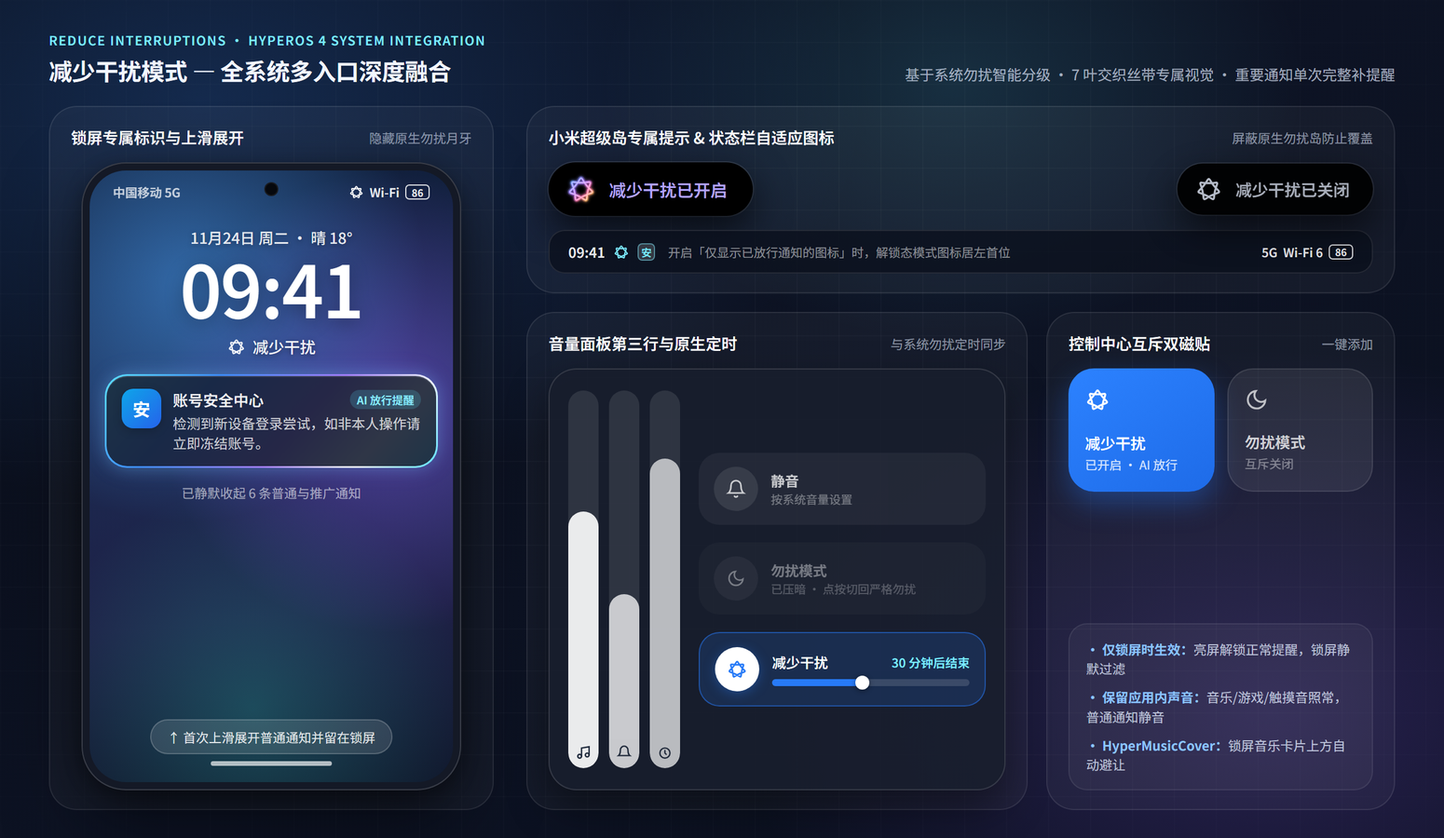
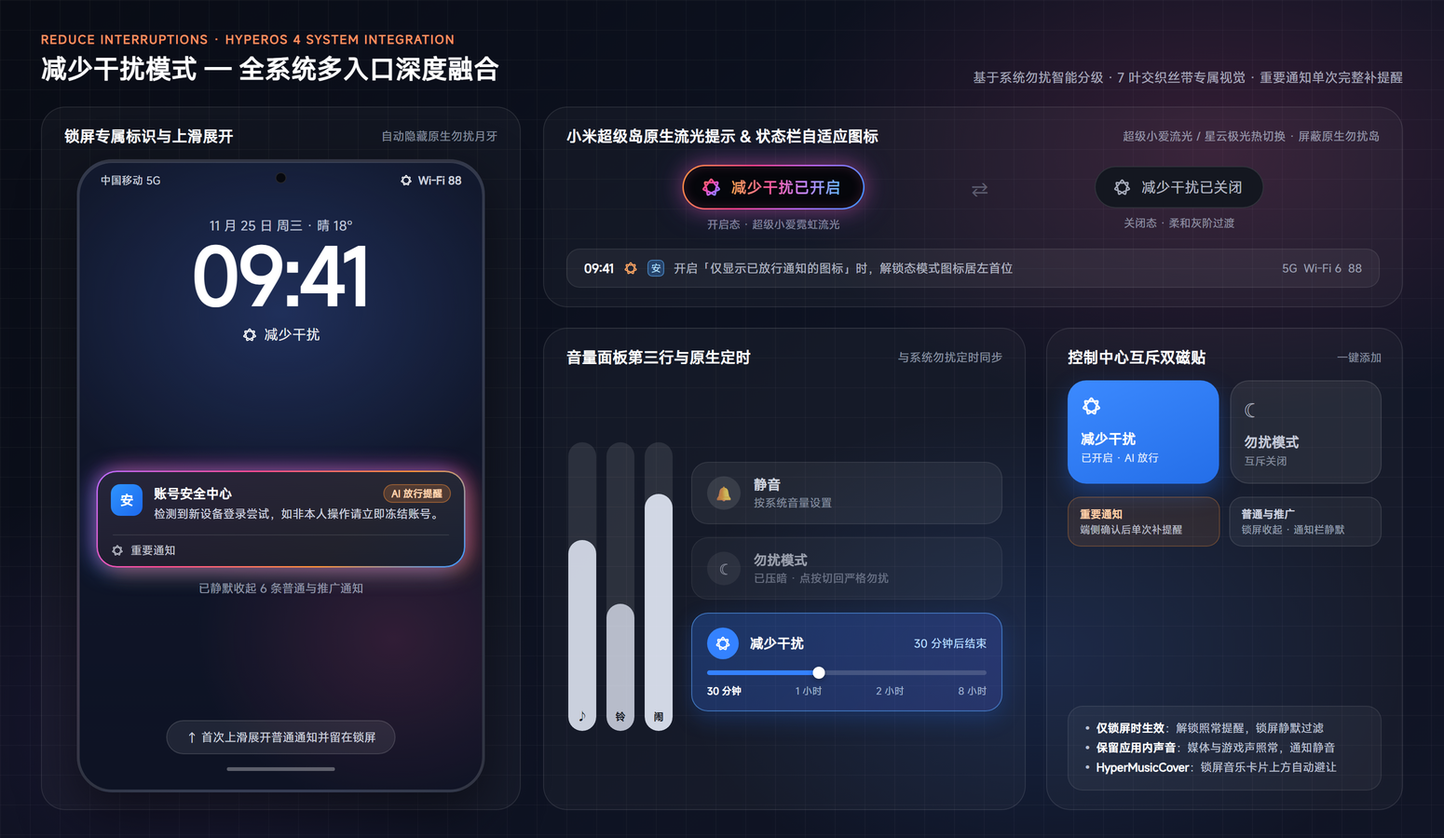
docs: 重写 README 并升级 v2.0.0 全套视觉配图

diff --git a/README.md b/README.md
@@ -6,91 +6,100 @@
 
 > 本地端大模型驱动的 HyperOS 智能通知模块（LSPosed · 100% 离线端侧推理）
 
-**LocalAiNotif** 是一款面向小米澎湃 OS（HyperOS）的开源 LSPosed 模块。模块内置 [MNN-LLM](https://github.com/alibaba/MNN) 端侧推理引擎，在设备本地运行 Qwen3.5 量化模型，支持高通骁龙 Hexagon NPU 与 CPU 混合推理。模块为系统通知栏、锁屏、音量面板与超级岛带来 **AI 通知摘要**、**单条长通知 AI 概括**、**重要通知专区**、**噪音过滤** 与 **减少干扰模式**。所有通知文本均在设备本地处理，**无需云端 API、不上传任何隐私数据、不依赖小米云控或小米账号**。
+**LocalAiNotif** 是一款面向小米澎湃 OS（HyperOS）的开源 LSPosed 模块。模块内置 [MNN-LLM](https://github.com/alibaba/MNN) 端侧推理引擎，在设备本地运行 **Qwen3.5** 量化模型，并支持高通骁龙 Hexagon NPU 与 CPU 混合推理。模块为系统通知中心、锁屏、状态栏、音量面板与小米超级岛带来 **AI 通知摘要**、**单条长通知 AI 概括**、**重要通知专区**、**噪音过滤** 与 **减少干扰模式**。所有通知文本均在手机本地完成处理，**无需云端 API、不上传任何隐私数据、不依赖小米云控或小米账号**。
 
 ---
 
 ## 环境要求与兼容性说明
 
 > [!IMPORTANT]
-> - **系统兼容性**：当前测试环境为 **HyperOS 4 / Android 17**（小米 15），**不保证更低版本系统或非 HyperOS 4 设备的兼容性**。
+> - **系统兼容性**：当前实测环境为 **HyperOS 4 / Android 17**（主力机型：小米 15），**不保证更低版本系统或非 HyperOS 4 设备的兼容性**。
 
 | 项目 | 要求 / 说明 |
 |---|---|
-| 测试环境 | **HyperOS 4 / Android 17**（主力实测机型：小米 15），不保证更低版本系统兼容性 |
-| 权限框架 | Root + **LSPosed**（支持 libxposed API 102） |
-| 芯片架构 | ARM64 (`arm64-v8a`)，已支持 Android 15+ 16KB 页对齐 |
-| 推理后端 | CPU，以及高通骁龙 Hexagon NPU（当前适配骁龙 8 至尊版 SM8750，Hexagon v79） |
+| 测试环境 | **HyperOS 4 / Android 17**（小米 15），`minSdkVersion = 34` / `targetSdkVersion = 36` |
+| 权限框架 | Root + **LSPosed**（`libxposed` API 102，静态作用域） |
+| 芯片架构 | ARM64 (`arm64-v8a`)，原生支持 Android 15+ 16KB 页对齐 |
+| 推理后端 | CPU，以及高通骁龙 Hexagon NPU（当前适配骁龙 8 至尊版 `SM8750` / Hexagon v79，不可用时自动回退 CPU） |
 
-> 模块深度对接 HyperOS 4 原生通知框架（`HyperNotificationManagerService`、`MiuiSystemUI`、音量面板插件、小米超级岛、`MIUINotificationCenter` 与系统设置）。若在未测试版本中遇到不匹配的 Hook 项，模块会自动安全降级，不会导致系统崩溃，但部分视觉或交互特性可能不可用。
+> 模块深度对接 HyperOS 4 原生通知框架（`HyperNotificationManagerService`、`MiuiSystemUI`、音量面板插件、小米超级岛、`MIUINotificationCenter` 与系统设置）。若在未测试系统版本中遇到不匹配的 Hook 符号，对应特性会自动安全降级，不会导致系统崩溃，但部分视觉或交互能力可能不可用。
 
 ### 第三方模块兼容（HyperMusicCover）
 
-**与 [HyperMusicCover](https://github.com/zyl6932/HyperMusicCover) 联用**（按 v0.9.60 源码适配）：两个模块均在 LSPosed 的系统界面（SystemUI）作用域生效后，开启「减少干扰」会同时收起锁屏超级岛里的普通通知。系统允许在锁屏显示的重要通知、来电和导航继续按原规则展示，在锁屏空白处上滑可临时展开普通通知。
+**与 [HyperMusicCover](https://github.com/zyl6932/HyperMusicCover) 联用**（按 `v0.9.60` 适配）：两个模块同时在 LSPosed 的系统界面（`com.android.systemui`）作用域生效后，开启「减少干扰」时会联动收起锁屏超级岛内的普通通知。系统允许在锁屏展示的重要通知、来电与导航照常保留，在锁屏空白处上滑即可临时展开已静默的普通通知（自动避让媒体控制卡片区域）。
 
-锁屏音乐卡片出现时，「减少干扰」标记会独立避让并显示在卡片上方；卡片收起后，标记自动回到原来的锁屏时钟下方位置。播放控件和封面手势仍由音乐封面模块处理，使用媒体会话（`MediaSession`）的自定义播放器通知也可正常放行。模式开启期间，日期旁的原生勿扰月牙会自动收起。
+锁屏音乐卡片显示时，「减少干扰」标识会自动上移避让至卡片上方；音乐卡片收起后自动回到锁屏时钟下方。播放控制与封面手势仍交由音乐封面模块处理，基于 `MediaSession` 的自定义播放器通知也可正常放行；模式开启期间会自动隐藏日期旁的原生勿扰月牙图标。
 
 ---
 
 ## 核心功能
 
 > [!NOTE]
-> 以下功能示例图严格依据模块当前的 HyperOS 4 视觉色板、矢量图标与交互布局绘制，实际渲染效果随系统深浅色与壁纸材质自适应。
+> 以下配图基于 `v2.0.0` 默认**「超级小爱流光」**主题绘制，实际渲染效果随所选光效风格（支持热切「星云极光」）、系统深浅色与壁纸材质实时自适应。
 
-### 1. AI 通知摘要与单条 AI 概括
-- **折叠组 AI 摘要**：通知先按系统流程即时投递原文。多条通知折叠成组后，自动生成 1–2 句自然连贯的第三人称要点汇总（支持 `MessagingStyle` 多轮聊天与 `InboxStyle` 上下文提取、程序确定性余量尾注与宁缺毋滥护栏），折叠卡片按摘要实际高度自适应伸缩（上限 4 行），避免截断。
-- **单条长通知 AI 概括**：设置首页提供独立的「AI 概括」栏目与专属动态示意图（默认关闭），内置**亮屏时概括**开关与 **50 / 80（默认）/ 120 / 200 字** 4 档触发字数门槛（英文按约 2 字母折 1 字，修改后立即对通知栏现有通知重判生效）。独立通知与展开通知组后的长消息均呈现单颗流光星芒 `✦ AI 概括 |` 微标与轻混正文，严格维持原生单卡高度；单独展开该条通知即可完整阅读原文，锁屏遵循系统隐私设置，长按沿用小米原生行为。
-- **双光效风格与全链路 4 阶段光学动效**：支持在「其他 › 光效风格」实时热切换 **超级小爱流光（默认）** 与 **星云极光**。AI 摘要（双星芒 `✦✦`）与 AI 概括（单星芒 `✦`）均不动原生卡片底色与外框，完整覆盖推理中 `14°` 倾斜扫光波、首次落地 `880ms` 光浪洗字与星芒轻绽、重入视野微光以及展开/收起联动（遵循锁屏隐私隐藏、息屏零后台动画与系统减弱动效）。
-- **准确刷新与灵活配置**：兼容私聊与群聊 `MessagingStyle` 堆叠通知，成员或内容变动时自动刷新摘要；支持在「摘要触发设置」中自定义**亮屏时生成摘要**、**合并等待时间**（0 / 5 / 15 / 30 / 60 秒）、**最小触发数量**（1 / 2 / 3 / 5 条）与**最小字数门槛**（0 / 10 / 15 / 30 / 50 字，重要通知不受限制），修改实时生效无需重启。
-- **无残留虚拟启用**：运行时在内存中接管 HyperOS 原生 AI 通知状态，不改写系统 `ai_notification_setting`，停用或卸载模块后不污染系统设置。
+### 1. AI 摘要（折叠组多条汇总）
+- **自然连贯第三人称摘要**：所有通知先按系统流程即时投递原文；同一应用的多条通知折叠成组后，由端侧模型在后台生成 Apple Intelligence 式 **1–2 句自然连贯的第三人称汇总**（保留发件人、关键动作及取件码/验证码/时间/金额/地点，保持原文语言）。
+- **富样式上下文与确定性尾注**：完整提取 `MessagingStyle` 多轮聊天记录（最新 4 轮、优先取会话标题防重复发件人）与 `InboxStyle` 多行列表，单次喂入最新 8 条并按时间正序整理；当组内通知超出喂入窗口或涉及多发件人时，由程序确定性补齐柔和余量尾注（如「等共 N 条通知」），不让小模型心算。
+- **宁缺毋滥护栏**：前置校验本地模型就绪状态（无模型零扫光、零请求），彻底去除规则截断假摘要兜底；内置护栏拦截空输出、提示词泄漏、复读循环、照抄原文及丢失/篡改显式验证码或取件码，命中即静默保留原生折叠原文。
+- **内联流光微标、自适应高度与 4 阶段动效**：不改动卡片底色与外框，折叠预览行首绘制自绘**双四角星芒 `✦✦ AI 摘要 |`** 与轻混流光正文，折叠卡片按实际排版高度自适应伸缩（上限 **4 行**，避免截断）。完整覆盖：① 真实 `inFlight` 推理期 `14°` 倾斜扫光波（`140ms` 防抖，原文全程可读）；② 首次落地/更新 `880ms` 光浪洗字与双星芒轻绽；③ 亮屏/下拉重入 `550ms` 徽标微光；④ 展开/折叠跟手微缩放与 `350ms` 折回轻闪（遵循锁屏隐私隐藏、息屏零动画与系统减弱动效）。
+- **灵活触发设置（二级页「摘要触发设置」）**：默认开启且对全部应用生效，支持即时调节**亮屏时生成摘要**（默认开启）、**合并等待时间**（`0 / 5 / 15 / 30 / 60 秒`，默认 `0 秒`）、**最小触发数量**（`1 / 2 / 3 / 5 条`，默认 `1 条`）与**最小字数门槛**（`0 / 10 / 15 / 30 / 50 字`，默认 `15 字`，重要通知不受限制），修改后无需重启立即同步。
+- **无残留虚拟启用**：运行时在内存中接管 HyperOS 原生 AI 通知状态，不向系统写入 `ai_notification_setting`，停用或卸载模块后不污染系统设置。
 
-### 2. 重要通知专区
-- **纯端侧语义判定**：由本地大模型实时识别**验证码、支付与交易、账号安全告警、日程变更、健康告警、家人未接来电**等高优先级消息。
-- **Apple 智能合卡 × 双光效环绕柔光**：在锁屏与通知中心自动置顶重要通知，通知中心多条重要通知无缝合为一张连续整卡（内分割线分隔）并在最底端共用同一个 7 叶交织丝带「重要通知」Footer，整卡外沿环绕清晰柔和的多色外扩散光晕与贴边玻璃折射棱（内部文字 100% 清透，支持超级小爱流光 / 星云极光热切换）；锁屏顺应 HyperOS 原生堆叠，解锁下拉支持重要通知先行、普通通知刻意分层入场。
-- **独立 VIP 分组与专属摘要**：同一应用的多条重要通知会自动合并为独立的原生折叠组，并仅基于组内重要通知生成专属 AI 摘要，不会与同应用的普通通知混杂；缩减为单条时自动恢复单卡。
+### 2. AI 概括（单条长通知要点提炼）
+- **面向单条长消息**：首页独立成节（默认关闭），开启后自动将单条较长通知提炼为 **1–2 句凝练要点**（优先呈现最新安排或结果及下一步行动，保留时间、地点与验证码，省去寒暄和旧信息），覆盖独立单条通知以及展开通知组后的长消息子卡；折叠组仍继续显示整组「AI 摘要」。
+- **单星芒流光视觉与 4 阶段动效**：与「AI 摘要」同源流光但视觉一眼可辨——行首采用**单颗四角星芒 `✦ AI 概括 |`** + 渐变半粗体微标 + `0.8dp` 渐隐竖光丝与轻混正文，严格维持单条通知原生行数、卡片高度与原生底色/外框。完整对齐 4 阶段光学动效（推理中 `14°` 倾斜扫光波 → 当前视野实时落地 `880ms` 光浪洗字 → 重入视野与展开通知组首次露出后台已算好长消息时仅播 `550ms` 徽标微光 → 单卡收起回概括态播 `350ms` 轻闪）。
+- **原文无损与原生交互**：顶部弹出横幅（Heads-up）保持原生原文不概括；锁屏是否展示概括遵循系统通知隐私设置；点开/展开该条通知即可完整阅读原文，通知中心与锁屏的所有长按操作均 100% 沿用小米原生行为。
+- **内联独立配置与即时重判**：独立卡片内配备专属 `RecapPreviewView` 动态示意图，并常驻内联提供：
+  - **亮屏时概括**（默认开启）：关闭后仅在息屏时生成新概括，亮屏到达的新长通知保持原文并在息屏后自动补齐，已生成的概括不撤销。
+  - **触发字数门槛**（4 档底部浮窗：`50 字` / `80 字（默认）` / `120 字` / `200 字`）：按汉字数计，英文字母与数字按约 2 字符折 1 字；修改门槛后立即对通知栏现有通知重判生效（调低门槛即时补算达标通知，调高门槛自动撤销不再达标的旧概括）。
+
+### 3. 重要通知专区
+- **纯端侧语义判定**：默认开启，由本地大模型实时识别**验证码、支付与交易、账号安全告警、物流异常、日程变更、健康告警、家人未接来电**等高优先级消息。
+- **Apple 智能连续合卡 × 双光效环绕柔光**：在锁屏与通知中心自动置顶重要通知。通知中心内多条重要通知无缝合并为一张连续整卡（内分割线分隔各条）并在最底端共用同一个 7 叶交织丝带「重要通知」Footer；整卡外沿由 AGSL 着色器绘制柔和多色外扩散光晕与贴边玻璃折射棱，卡片内部文字与分割线 100% 清透；亮屏、下拉或新重要通知置顶时外沿流光丝滑流转约 `1.6s` 后静息。锁屏顺应 HyperOS 原生堆叠，顶部横幅保持原生清爽不加 Footer。
+- **解锁下拉刻意分层入场**：解锁态下拉通知中心且存在重要通知时，重要通知原生先行进入，下方普通通知在拖拽初段静默留白，跨过阈值或松手时原地柔和淡入微落，消除原生下拉跳动与穿透感。
+- **独立 VIP 分组与专属摘要**：同一应用有 2 条及以上重要通知时，自动聚合为独立原生折叠组并仅基于组内 VIP 生成专属 AI 摘要，不与同应用的普通通知混杂；缩减回单条时自动恢复单卡。
 
 <p align="center">
-  <img src="docs/images/demo-summary-priority.png" alt="AI 通知摘要与重要通知专区示例" width="100%">
+  <img src="docs/images/demo-summary-priority.png" alt="AI 摘要、AI 概括与重要通知专区示例" width="100%">
 </p>
 
-### 3. 噪音过滤
-- **按原设置即时提醒，后台精准收纳**：主设置页提供独立的「噪音过滤」开关（默认关闭，适合长期开启）。开启后通知仍按系统设置即时提醒，由端侧模型在后台独立判定（不受摘要等待时间与字数门槛限制）；未就绪模型或判定异常时保持原通知不变。
-- **只收广告推广，不误伤正常消息**：以单条通知的主要用途为判据，仅将商品推销、促销领券、拉新引流等纯广告推广收纳至「推广通知」；取件码、订单进度、聊天、订阅与用户提醒即使正文附带优惠或领券文案也会整条正常保留（长正文自动防误杀）。
-- **原生「推广通知」折叠页与锁屏隐藏**：解锁后在通知中心底部沿用 HyperOS 原生「更多通知」样式展示独立的「推广通知」入口与应用图标条，锁屏隐藏入口及已收纳的广告。点开后可逐条查看、点按跳原应用或单独划掉，最后一条被移除或由应用撤回后入口自动消失。
-- **直达设置与无损恢复**：推广列表右上角的设置按钮会直接跳转至主设置页并定位到「噪音过滤」开关；手动关闭开关时，仍有效的已收纳通知会静默恢复到普通列表。与「减少干扰」独立解耦，互不影响提醒控制。
+### 4. 噪音过滤（广告推广收纳）
+- **原样即时提醒，后台精准收纳**：首页独立开关（默认关闭，适合长期开启）。通知到达时先按系统原设置即时提醒，随后由端侧模型在后台独立判定（不受摘要等待时间与字数门槛限制）；未就绪模型或异常时保持原通知不变。
+- **双重确认与聊天豁免防误杀**：以单条通知的主要用途为判据，同时要求命中营销关键词/推广通道线索且非超长正文（`≤ 256` 字），并严格排除 `CATEGORY_MESSAGE` 与 `MessagingStyle` 聊天会话；取件码、订单物流、账单、日程、新闻订阅即使正文附带优惠或领券尾巴也会整条正常保留。
+- **原生「推广通知」折叠页与无损恢复**：解锁后在通知中心底部沿用 HyperOS 原生「更多通知」样式展示独立「推广通知」入口与应用图标条，锁屏隐藏入口及已收纳广告。点开后可逐条查看、跳转原应用或单独划掉；右上角设置图标直达模块「噪音过滤」栏目，手动关闭开关时仍有效的已收纳通知会静默恢复至普通列表。
 
 <p align="center">
   <img src="docs/images/demo-noise-filter.png" alt="噪音过滤与推广通知收纳示例" width="100%">
 </p>
 
-### 4. 减少干扰模式（Reduce Interruptions）
-- **智能分级勿扰**：复刻 iOS 18「减少干扰」体验，基于系统勿扰（`ZenMode`）构建并继承系统勿扰原生例外（允许来电、重复来电、闹钟、进行中事件）：
-  - **普通与推广通知**在通知中心静默保留，锁屏时默认收起。首次上滑可展开通知并停留在锁屏，重新锁屏或息屏后再次收起。
-  - **重要通知穿透**：新通知到达后立即触发端侧分类（跳过摘要等待与字数限制），确认为高优重要通知后单次完整补发提醒（声震 / 横幅 / 亮屏）。
-- **深度融入 HyperOS 多入口与专属视觉**：采用 Apple Intelligence 风格 7 叶交织丝带矢量图标，在系统多处原生融合：
-  - **锁屏模式标识**：显示在时钟下方，由白色 7 叶丝带和「减少干扰」文字组成；开启期间自动隐藏锁屏原生勿扰月牙。
-  - **控制中心快捷磁贴**：支持从设置页一键添加独立「减少干扰」磁贴，与原生「勿扰模式」磁贴严格互斥，一键切换互不冲突。
-  - **音量面板第三行与原生定时**：在 HyperOS 展开音量面板的勿扰（月亮）行下方新增「减少干扰」独立行与原生滑动定时条，开合动效、倒计时与系统勿扰定时条件完全同步（开启减少干扰时压暗月亮行，点按月亮行可一键切回传统严格勿扰）。
-  - **小米超级岛专属提示**：开关切换瞬间在超级岛弹出虹彩交织丝带与「减少干扰已开启 / 已关闭」专属卡片，屏蔽原生勿扰岛防止覆盖。
-  - **状态栏自适应图标**：状态栏自动切换为清晰的单色交织丝带矢量图标，自适应深浅色状态栏。
-- **精细控制开关**：
-  - **仅锁屏时生效**：解锁使用手机时全部通知正常提醒，锁屏或息屏后自动静默过滤。
-  - **仅显示已放行通知的图标**：隐藏状态栏左侧未放行通知的应用图标，仅展示系统勿扰例外或 AI 放行通知；开启后解锁态模式图标移至左侧首位，锁屏态回归右侧为运营商名称留白。
-  - **保留应用内声音和系统音效**（默认关闭）：开启后，音乐、游戏和触摸音效按手机原设置播放。普通应用通知在等待分类或判定为普通时保持静音，只有判定为重要并放行的通知才可按原渠道响铃。来电、闹钟等沿用系统勿扰规则。
+### 5. 减少干扰模式（Reduce Interruptions）
+- **智能分级勿扰**：默认关闭，复刻 iOS 18「减少干扰」体验，基于系统勿扰（`ZenMode`）构建并完整继承系统勿扰原生例外（来电、重复来电、闹钟、进行中事件）：
+  - **普通与推广通知**：在通知中心静默保留、锁屏时默认收起；锁屏上滑一次即可临时展开查看并停留，重新锁屏或息屏后再次收起。
+  - **重要通知穿透补发**：新通知到达后立即跳过摘要等待与字数门槛执行端侧分类，确认为重要通知（`important && vip`）后单次完整补发提醒（声震 / 横幅 / 亮屏）；无模型或超时时按 fail-closed 保持安静。
+- **全系统多入口深度融合（7 叶交织丝带图标）**：
+  - **锁屏标识**：在锁屏时钟下方显示单色白色 7 叶丝带与「减少干扰」，开启期间自动隐藏锁屏原生勿扰月牙。
+  - **控制中心互斥磁贴**：支持在设置页一键添加「减少干扰」快捷磁贴，与系统原生「勿扰模式」磁贴严格互斥。
+  - **音量面板第三行与原生定时**：在 HyperOS 展开音量面板的「勿扰模式」行下方新增「减少干扰」独立行与原生滑动定时条，倒计时与系统勿扰定时完全同步，点击原生「勿扰模式」可一键切回传统严格勿扰。
+  - **小米超级岛专属流光卡片**：开启时调用 HyperOS 4 超级岛原生 SDF 流光边框并施加 AGSL 渐彩扫光文字（支持「超级小爱流光」与「星云极光」联动），关闭态保持素雅银灰，并屏蔽原生勿扰岛防止覆盖。
+  - **状态栏自适应图标**：状态栏自动显示单色交织丝带矢量图标，自适应深浅色状态栏。
+- **三项常驻精细开关（默认均关闭）**：
+  - **仅锁屏时生效**：亮屏解锁使用手机时恢复正常提醒，息屏或锁屏时自动拦截打扰。
+  - **仅显示已放行通知的图标**：隐藏状态栏左侧未放行通知的应用图标，仅展示例外与 AI 放行通知；开启后解锁态模式图标移至左侧首位，锁屏态居于右侧。
+  - **保留应用内声音和系统音效**：音乐、游戏和触摸音效按手机原设置正常播放；普通通知保持静音，仅重要通知放行后可按原渠道响铃。
 
 <p align="center">
   <img src="docs/images/demo-reduce-interruptions.png" alt="减少干扰模式多入口融合示例" width="100%">
 </p>
 
-### 5. 本地模型管理与 HyperOS 原生设置
-- **多镜像源一键下载**：内置 **魔搭社区 ModelScope（默认推荐）**、**HF-Mirror**、**Hugging Face** 三下载源，支持断点续传、仅 Wi-Fi 下载保护与前台服务通知栏进度条。
-- **本地模型导入与管理**：支持通过系统目录选择器导入手机上已有的 MNN-LLM 模型目录，支持查看模型详情、原目录位置与自由切换；删除导入模型时仅移除模块内部副本，不改动手机原文件夹。
-- **进程隔离与内存策略**：推理运行在独立 `:inference` 隔离进程，不影响 `system_server` 稳定性，并内置墓碑冻结重试保护；默认按需懒加载、空闲 3 分钟无推理自动释放内存，同时提供**始终加载 AI 模型**开关（系统静默保活绑定，通知到达免冷启动）。
-- **HyperOS 原生视觉与关于页**：设置界面采用纯原生 HyperOS 规范（18dp 超椭圆卡片、MiSans 可变字重、自绘阻尼胶囊开关与**五张随开关及光效风格实时联动的功能示意图**，自动适配浅色与 OLED 深色模式）。内置**关于与运行环境**页面，支持：
-  - **在系统设置中显示入口**：按需在「系统设置 › 通知与状态栏」的「小米超级岛」下方同卡融合显示原生入口（实时生效无需重启）。
-  - **隐藏桌面图标**：带防迷路确认引导，保留系统设置与 LSPosed 管理器入口。
-  - **检查更新**：在「关于 › 项目信息」点按「检查更新」。发现新正式版后，点按「下载更新」即可将 APK 保存到系统「下载」文件夹，从中打开安装。
-  - **运行环境诊断**：双轨检测 LSPosed 自注入与 `system_server` 实时版本（自动区分「已激活」与「需软重启」），查看设备/模型/引擎状态并一键复制诊断信息。
+### 6. 双光效风格、本地模型与 HyperOS 原生设置
+- **双「光效风格」无重启热切换**：在首页「其他 › 光效风格」可在 **超级小爱流光（默认，暖橙/玫粉/薰衣草紫/电光蓝）** 与 **星云极光（天青/晴空蓝/冰紫）** 间一键切换，实时广播同步至通知栏全部 AI 视觉（AI 摘要、AI 概括、重要通知合卡、减少干扰超级岛）及设置页全部 **5 组动态示意图**。
+- **多镜像源一键下载与本地导入**：内置 **魔搭社区 ModelScope（默认推荐）**、**HF-Mirror** 与 **Hugging Face** 三下载源，支持断点续传、仅 Wi-Fi 下载保护（默认开启）与前台服务进度通知；同时支持通过系统目录选择器导入手机上已有的 MNN-LLM 模型目录，查看详情与原目录位置，删除导入模型时仅移除模块内部副本，不动原文件夹。
+- **独立隔离进程与内存策略**：推理引擎运行在独立 `:inference` 进程，不占用 `system_server` 内存，内置 MIUI 墓碑冻结（`GreezeManager`）重试保护；默认按需懒加载并在空闲 **3 分钟** 无推理后自动卸载释放内存，同时提供**始终加载 AI 模型**开关（由 `system_server` 静默绑定 `ModelKeepAliveService`，通知到达免冷启动）。
+- **HyperOS 原生设置与「关于」页**：全页采用纯原生 Java View 实现 HyperOS 4 视觉规范（`18dp` 连续曲率超椭圆卡片、`28dp` 左对齐基准线、MiSans 可变字重、自绘阻尼胶囊开关、**5 组实时联动功能示意图**，自适应浅色与 OLED 纯黑深色模式）。「关于」页支持：
+  - **在系统设置中显示入口**（默认关闭）：实时在「系统设置 › 通知与状态栏」的「小米超级岛」同卡下方融合注入入口，无需重启。
+  - **隐藏桌面图标**：通过 `<activity-alias>` 实现并附带防迷路确认引导，保留系统设置与 LSPosed 管理器入口。
+  - **应用内检查更新**：一键查询 GitHub 最新正式版，通过系统 `DownloadManager` 下载对应 `LocalAiNotif-v<version>.apk` 至系统「下载」目录。
+  - **运行环境诊断**：双轨核验 LSPosed 自注入状态与 `system_server` 实时版本（自动区分「已激活」与「需软重启」），查看设备/模型/引擎状态并一键复制诊断信息。
 
 <p align="center">
   <img src="docs/images/demo-settings-hyperos.png" alt="HyperOS 原生设置页与本地模型管理示例" width="100%">
@@ -101,105 +110,137 @@
 ## 快速上手
 
 ### 第一步：安装与激活模块
-1. 前往 [Releases](https://github.com/InternetBugs/LocalAiNotif/releases) 下载并安装最新正式版 `LocalAiNotif` APK（安装包不含模型权重，体积轻巧）。
-2. 打开 **LSPosed 管理器**，启用 **端侧AI通知总结（LocalAiNotif）**，确认勾选以下 **5 个静态作用域**：
+1. 前往 [Releases](https://github.com/InternetBugs/LocalAiNotif/releases) 下载最新正式版安装包（不含模型权重，体积轻巧）：
+   - `LocalAiNotif-v<version>.apk`（**Release**）：关闭应用调试，推荐日常使用。
+   - `LocalAiNotif-v<version>-debug.apk`（**Debug**）：开启调试模式，适合排查问题或通过已授权的 ADB 使用 `run-as`。
+   - 两个包功能、包名和正式签名完全一致，任选其一安装即可。
+2. 打开 **LSPosed 管理器**，启用 **端侧AI通知总结（LocalAiNotif）**，确认以下 **5 个静态作用域**（见 [scope.list](META-INF/xposed/scope.list)）已勾选：
    - **系统框架** (`system`)
    - **系统界面** (`com.android.systemui`)
    - **通知管理 / 通知中心** (`com.miui.notification`)
    - **设置** (`com.android.settings`)
-   - **端侧AI通知总结** (`com.localai.notif`，用于在「关于」页检测框架激活状态)
-3. **软重启或重启手机**使 Hook 生效。
+   - **端侧AI通知总结** (`com.localai.notif`，用于「关于」页读取框架信息与激活状态)
+3. **软重启或重启手机**使 Hook 生效（更新版本后若涉及系统 Hook 变更，软重启一次即可）。
 
 ### 第二步：下载或导入本地模型
 1. 打开 **端侧AI通知总结**，进入「本地模型 › 端侧模型」。
-2. 选择下载源（国内网络推荐使用默认**魔搭社区 ModelScope** 或 **HF-Mirror**）。
-3. 选择 Qwen3.5-0.8B 或 Qwen3.5-2B，下载后设为当前模型。也可以导入手机本地已有的 MNN-LLM 模型目录。
+2. 选择下载源（国内网络推荐默认的**魔搭社区 ModelScope** 或 **HF-Mirror**）。
+3. 下载预设模型 **Qwen3.5-0.8B（推荐）** 或 **Qwen3.5-2B** 并设为当前模型；也可以直接导入手机本地已有的 MNN-LLM 模型目录。
 
-#### 端侧模型资源占用
+#### 预设端侧模型与实测资源占用
 
 | 模型（MNN INT4） | 下载大小 | 推理后端 | 推理进程峰值内存 | 短通知摘要耗时 |
 |---|---:|---|---:|---:|
-| Qwen3.5-0.8B | 约 550 MB | CPU | 924 MiB | 0.36 秒 |
-| Qwen3.5-0.8B | 同一份模型 | Hexagon NPU + CPU | 299 MiB | 0.99 秒 |
-| Qwen3.5-2B | 约 1.27 GB | CPU | 1,725 MiB | 0.73 秒 |
-| Qwen3.5-2B | 同一份模型 | Hexagon NPU + CPU | 1,343 MiB | 4.99 秒 |
+| **Qwen3.5-0.8B（推荐）** | 约 550 MB | CPU | 924 MiB | 0.36 秒 |
+| **Qwen3.5-0.8B（推荐）** | 同一份模型 | Hexagon NPU + CPU | 299 MiB | 0.99 秒 |
+| **Qwen3.5-2B** | 约 1.27 GB | CPU | 1,725 MiB | 0.73 秒 |
+| **Qwen3.5-2B** | 同一份模型 | Hexagon NPU + CPU | 1,343 MiB | 4.99 秒 |
 
-数据来自小米 15（骁龙 8 至尊版）上的 MNN 文本推理测试。每种后端独立运行三次，表中取中位数。内存是完成短通知摘要和分类期间的进程峰值 RSS，NPU 专用内存未单独计量。耗时是同一条会议通知生成一句摘要的输入处理与生成时间，不含加载模型、首次回退重试或应用排队。长通知、分组摘要和更长输出的占用与耗时会变化。
+> 数据来自小米 15（骁龙 8 至尊版 `SM8750`）实测，每种后端独立运行三次取中位数。内存为完成短通知摘要与分类期间 `:inference` 进程峰值 RSS（NPU 专用内存未单独计量）；耗时为同一条会议通知生成一句摘要的输入处理与生成耗时，不含模型加载、回退重试或排队耗时。
 
-两款模型均支持在兼容的高通骁龙处理器上使用 Hexagon NPU，目前适配骁龙 8 至尊版（SM8750，Hexagon v79）。Hexagon 执行支持的投影运算，2B 模型还会将门控归一化（`GatedRMSNorm`）交给 Hexagon，注意力等其余运算由 CPU 完成。已下载的模型可直接使用，NPU 不可用时应用会自动使用 CPU。导入模型可在 `config.json` 中指定 `"backend_type": "hexagon"`。
+两款预设模型均支持在高通骁龙 8 至尊版（`SM8750`，Hexagon v79）上自动启用 Hexagon NPU 混合推理：NPU 承担投影运算（2B 模型额外承接 `GatedRMSNorm`），注意力等其余算子由 CPU 完成；若设备不支持或初始化/生成失败，引擎会自动静默回退至 CPU 后端。手动导入的本地模型可在其 `config.json` 中指定 `"backend_type": "hexagon"` 启用混合推理。
 
-APK 随附 `libs/hexagon-v79/` 中的 Android FastRPC 接口库和 DSP 算子库。需要重新编译时，在 Linux 上设置 `MNN_DIR`（与发版流程相同的 MNN 提交）、`HEXAGON_SDK_ROOT`（6.4.0.2）和 `ANDROID_NDK_HOME`（r28c），运行 `bash tools/hexagon/build-v79.sh`。
+APK 已内置 `libs/hexagon-v79/` 中的 Android FastRPC 接口库与 DSP 算子库（`libMNN_htpops.so`、`libMNN_htpops_skelV79.so`）。如需自行重编，可在 Linux 上设置 `MNN_DIR`（与发版流程相同的 MNN 提交）、`HEXAGON_SDK_ROOT`（`6.4.0.2`）和 `ANDROID_NDK_HOME`（`r28c`），执行 `bash tools/hexagon/build-v79.sh`。
 
-### 第三步：按需调整设置与添加入口
-- **AI 摘要 / 重要通知**：默认开启并对全部应用生效，可在首页一键开关或进入「摘要触发设置」微调触发时机与字数门槛。
-- **AI 概括**：默认关闭，可在首页独立「AI 概括」栏目一键开启，并按需调节「亮屏时概括」与「触发字数门槛」（50 / 80 / 120 / 200 字）。
-- **噪音过滤**：默认关闭，可在首页按需开启，自动将广告推广收纳至通知中心底部的「推广通知」。
-- **减少干扰**：可在首页开启、点击「添加到控制中心」加入快捷磁贴，或在展开的 HyperOS 音量面板第三行直接开关并拖动设置定时。
-- **系统设置入口 / 隐藏桌面图标 / 检查更新**：可在首页底部进入「关于」页按需开启，在线检查正式版更新，并核验模块是否已完全激活。
+### 第三步：按需调整功能与入口
+- **AI 摘要 / 重要通知**：默认开启并对全部应用生效，可在首页一键开关或进入「摘要触发设置」调整触发参数。
+- **AI 概括**：默认关闭，在首页独立「AI 概括」栏目开启后，可随时调节「亮屏时概括」与「触发字数门槛（50 / 80 / 120 / 200 字）」。
+- **噪音过滤**：默认关闭，开启后自动在后台将纯广告收纳至通知中心底部的「推广通知」。
+- **减少干扰**：可在首页开启、点击「添加到控制中心」添加快捷磁贴，或在展开的 HyperOS 音量面板第三行直接开关并拖动定时。
+- **光效风格 / 系统设置入口 / 隐藏桌面图标 / 检查更新**：在首页底部「其他」切换光效风格，或进入「关于」页按需配置入口与核验运行环境。
 
 ---
 
 ## 隐私与安全
 
-- **100% 本地推理**：所有通知的分类判定与摘要生成均通过内置 MNN 引擎在设备本地完成，通知内容绝不离开手机。
-- **网络访问**：仅在手动下载模型时访问所选模型仓库，在手动检查和下载应用更新时访问 GitHub；通知分类与摘要始终在本机离线完成。
-- **进程隔离**：AI 引擎与模型权重隔离在独立 `:inference` 进程，系统核心进程 `system_server` 仅负责轻量调度，不加载模型权重。
+- **100% 本地离线推理**：所有通知分类、折叠组摘要与单条概括均通过内置 MNN-LLM 引擎在设备本地完成，通知原文绝不离开本机。
+- **极简按需联网**：仅在你手动下载预设模型时访问所选模型仓库（ModelScope / HF-Mirror / Hugging Face），以及手动点击「检查更新 / 下载更新」时访问 GitHub；通知处理链路全程零联网。
+- **进程与权限隔离**：模型权重与推理引擎隔离在独立 `:inference` 进程，系统核心进程 `system_server` 仅做轻量调度；`InferenceProvider` 按调用方 UID 严格校验推理与写配置权限。
 
 ---
 
 ## 常见问题（FAQ）
 
 **Q：支持 HyperOS 2 / HyperOS 3 或 Android 15 / 16 吗？**  
-A：当前仅在 **HyperOS 4 / Android 17（小米 15）** 上完成实测，**不保证更低版本系统或非 HyperOS 4 设备的兼容性**。部分深度 Hook（如音量面板插件第三行、超级岛提示、状态栏通知图标过滤、推广通知折叠页）强依赖 HyperOS 4 对应系统组件签名；不匹配项会自动降级，但无法保证全部功能可用。
+A：当前仅在 **HyperOS 4 / Android 17（小米 15）** 完成端到端实测，**不保证更低版本系统或非 HyperOS 4 设备的兼容性**。部分深度 Hook（如音量面板第三行、超级岛流光、状态栏图标过滤、推广通知折叠页与重要通知合卡）强依赖 HyperOS 4 对应组件签名；不匹配项会自动降级，但无法保证全部特性可用。
 
-**Q：刚重启或首次收到通知时，为什么摘要或重要通知识别需要等待十几秒？**  
-A：默认按需加载模型，空闲 3 分钟后自动卸载。下一条需要推理的通知会先等待模型加载。开启**始终加载 AI 模型**会保留模型和工作缓冲区，省去下次加载时间。Hexagon 后端在算子空闲约 100 毫秒后撤销高性能请求。长期待机耗电尚未实测。
+**Q：刚重启或首次收到通知时，为什么摘要、概括或重要通知识别需要等待一会儿？**  
+A：默认按需加载模型，并在空闲 **3 分钟** 无推理后自动卸载释放内存，下一次推理前会先等待模型冷加载。如果希望通知到达零等待，可在首页「本地模型」中开启**始终加载 AI 模型**。Hexagon 后端在算子空闲约 100 毫秒后会自动撤销高性能投票。
 
-**Q：开启「噪音过滤」后，附带优惠文案的取件码或订单通知会被误收走吗？**  
-A：不会。模型以单条通知的主要用途为判据，取件码、订单配送、聊天和日程提醒即使附带领券或促销尾巴也会整条保留；仅主要目的为广告推广的通知才会收进「推广通知」。如果手动关闭「噪音过滤」，当前仍有效的已收纳通知也会静默恢复到普通通知列表。
+**Q：「AI 摘要」和「AI 概括」有什么区别？会互相冲突吗？**  
+A：不会冲突，两者互补：
+- **AI 摘要（双星芒 `✦✦`）**：面向同一应用折叠起来的**多条通知组**，把整组消息汇总为 1–2 句。
+- **AI 概括（单星芒 `✦`）**：面向**单条长通知**（包括独立通知和展开通知组后的长消息子卡），点开单条通知即可还原完整原文。
+
+**Q：开启「噪音过滤」后，附带优惠文案的取件码、订单或聊天会被误收走吗？**  
+A：不会。除了端侧语义模型按通知主要用途判定外，代码层还强制要求命中营销/推广线索、正文不超过 256 字，并彻底排除 `CATEGORY_MESSAGE` 与 `MessagingStyle` 聊天通知。手动关闭「噪音过滤」时，当前仍有效的已收纳通知会自动静默恢复到普通列表。
 
 **Q：未下载模型时开启「减少干扰」会怎样？**  
-A：未就绪模型时默认按 fail-closed 保持安静，此时「减少干扰」等同于传统系统勿扰模式（仍继承系统勿扰允许的来电、闹钟与进行中事件）。下载并启用模型后即自动恢复 AI 智能放行。
+A：模型未就绪时按 fail-closed 策略保持安静，此时「减少干扰」行为等同于传统系统勿扰模式（仍完整保留系统勿扰允许的来电、闹钟与进行中事件）。下载并启用模型后自动恢复 AI 重要通知穿透提醒。
 
 **Q：「减少干扰」和系统自带「勿扰模式」有什么区别？**  
-A：系统原生「勿扰模式」仅按静态白名单/联系人放行；「减少干扰」在复用系统勿扰底层策略与原生定时条件的同时叠加本地大模型语义识别，让非白名单应用里的紧急验证码、支付风控、行程变动等也能及时提醒。两个入口在控制中心与音量面板严格互斥，点击原生「勿扰模式」即可切回传统严格勿扰。
+A：系统原生「勿扰模式」只能按静态白名单/联系人放行；「减少干扰」在复用系统勿扰底层机制与原生定时的同时叠加本地大模型语义判断，让非白名单应用里的紧急验证码、支付风控、日程变动等也能单次完整补发提醒。两者在控制中心与音量面板严格互斥，点按原生「勿扰模式」即可切回传统严格勿扰。
 
 **Q：为什么需要 `com.miui.notification`、`com.android.settings` 和 `com.localai.notif` 作用域？**  
-A：`com.miui.notification` 用于运行时虚拟保持系统 AI 通知开关状态并屏蔽小米云端下载弹窗；`com.android.settings` 用于开启原生设置支持以及在「设置 › 通知与状态栏」的「小米超级岛」下方注入可选设置入口；`com.localai.notif` 用于在「关于」页读取 LSPosed 框架版本与自注入状态。
+A：`com.miui.notification` 用于运行时虚拟保持系统 AI 通知状态并屏蔽小米云端下载弹窗；`com.android.settings` 用于开启原生设置支持以及在「设置 › 通知与状态栏」的「小米超级岛」下方注入可选入口；`com.localai.notif` 用于在「关于」页自检 LSPosed 框架版本与模块激活状态。
 
 ---
 
 ## 从源码构建
 
-本项目采用纯 **Java 17 + Android Framework 原生 View API + C++17 JNI（MNN-LLM）** 实现，**无 Gradle、无 Kotlin、无 AndroidX 依赖**，可直接使用 Android SDK `build-tools` 与 NDK 编译：
+本项目采用纯 **Java 17（`javac --release 17`）+ Android Framework 原生 View API + C++17 JNI（MNN-LLM）** 实现，**无 Gradle、无 Kotlin、无 AndroidX 依赖**，通过 [build.sh](build.sh) 直接调用 Android SDK `build-tools` 与 NDK 构建，兼容 **Windows Git Bash** 与 **Linux**。
 
 ### 前置依赖
 - JDK 17+
-- Android SDK（`platforms/android-36`、`build-tools/35.0.0`）
-- Android NDK（默认 `28.2.13676358`，`clang++` 支持 `aarch64-linux-android24` 与 16KB 页对齐）
-- Python 3
-- 预编译的 ARM64 `libMNN.so` 与 MNN 源码头文件（默认位于用户主目录下的 `tmp/MNN`）
+- Android SDK：`platforms/android-36`、`build-tools/35.0.0`
+- Android NDK：`28.2.13676358`（`clang++`，支持 `aarch64-linux-android24` 与 16KB 页对齐）
+- CMake + Ninja（首次从源码编译 `libMNN.so` 时需要）与 Python 3
+- MNN 源码（固定提交见 [.github/workflows/release.yml](.github/workflows/release.yml) 中的 `MNN_COMMIT`，默认路径 `$HOME/tmp/MNN`）
 
-### 构建命令
-在 Windows Git Bash 中运行：
+### 准备本地签名配置
 
-```bash
-bash build.sh
+`build.sh` **不会**自动生成密钥或回退到 `~/.android/debug.keystore`。请准备一个 JSON 签名配置文件（如 `signing-backup.json`，严禁提交入库），并通过 `SIGNING_CONFIG`（或 `SIGNING_DIR`）传入：
+
+```json
+{
+  "keystore": "your-release.p12",
+  "store_password": "your-store-password",
+  "key_alias": "your-key-alias",
+  "key_password": "your-key-password"
+}
 ```
 
-默认 SDK 路径为 `D:/Android/Sdk`，签名密钥默认使用用户主目录下的 `.android/debug.keystore`。依赖或密钥位于其他路径时，可通过 `ANDROID_SDK_ROOT`、`NDK_DIR`、`MNN_DIR`、`PYTHON` 与 `DEBUG_KEYSTORE` 环境变量覆盖。  
-本地默认生成可调试的 `dist/LocalAiNotif-v<version>-debug.apk`。运行 `BUILD_TYPE=release bash build.sh` 可生成关闭调试的 `dist/LocalAiNotif-v<version>.apk`。发布页同时提供这两个包，使用相同的正式签名和 16 KB 页对齐。日常使用选 Release，需要连接调试器或使用 `adb shell run-as` 排查问题时选 Debug。
+> 如需兼容旧密钥无缝覆盖升级，可在同一 JSON 中追加 `lineage`、`legacy_keystore`、`legacy_alias`、`legacy_password` 启用 APK Signature Scheme v3 签名轮换。
 
-更多底层架构说明、Hook 符号表与开发约定可查阅：
-- [架构与设计文档](docs/设计.md)
-- [开发规范与 HyperOS UI 设计体系](AGENTS.md)
+### 构建命令
+
+```bash
+# 默认构建 Debug 包 -> dist/LocalAiNotif-v<version>-debug.apk
+SIGNING_CONFIG=/path/to/signing-backup.json bash build.sh
+
+# 构建 Release 包（关闭调试）-> dist/LocalAiNotif-v<version>.apk
+BUILD_TYPE=release SIGNING_CONFIG=/path/to/signing-backup.json bash build.sh
+```
+
+常用环境变量覆盖项：`ANDROID_SDK_ROOT`、`NDK_DIR`、`MNN_DIR`、`MNN_LIB`（复用已编译的 `libMNN.so` 跳过 CMake）、`HEXAGON_OPS_DIR`、`DIST_DIR`、`BUILD_JOBS`、`PYTHON`。
+
+### 仓库结构速览
+
+| 路径 | 说明 |
+|---|---|
+| `src/com/localai/notif/` | 纯 Java 17 模块源码（`ModuleMain`、`NotificationSummaries`、`InferenceProvider`、`LlmEngine`、`Classifier`、`SystemUi*`、`PrioritySectionFrame`、`PriorityShadeRevealAnimator`、`GlowStyle`、`NebulaSummaryVisuals`、`MainActivity`、`HyperSettingsUi`、`AboutActivity` 等） |
+| `jni/` | MNN-LLM JNI 封装（`localai_llm_jni.cpp`）与 Hexagon 投影/归一化桥接（`MnnHexagon.cmake`、`HexagonProjectionFactory.cpp`） |
+| `libs/hexagon-v79/` | 随 APK 打包的 Hexagon v79 FastRPC 接口库与 DSP 算子库 |
+| `META-INF/xposed/` | `libxposed` API 102 模块元信息、入口类列表与 5 项静态作用域 |
+| `.github/workflows/release.yml` | 仅手动触发（`workflow_dispatch`）的云端正式发版流水线，自动构建并校验 Release + Debug 双签 APK 与 `SHA256SUMS.txt` |
+| `docs/设计.md` · `docs/交接.md` · `AGENTS.md` | 架构设计、Hook 符号记录、实机验证交接与 HyperOS UI 开发规范 |
 
 ---
 
 ## 致谢
 
 - [MNN](https://github.com/alibaba/MNN) — 阿里开源高性能端侧推理引擎
-- [Qwen3.5-0.8B](https://huggingface.co/Qwen/Qwen3.5-0.8B) — 通义千问端侧模型
+- [Qwen3.5（0.8B / 2B）](https://huggingface.co/Qwen) — 通义千问端侧开源大模型（MNN 量化由 [taobao-mnn](https://huggingface.co/taobao-mnn) / [ModelScope MNN](https://www.modelscope.cn/organization/MNN) 提供）
 - [LSPosed / libxposed](https://github.com/LSPosed/LSPosed) — 现代 Android ART Hook 框架
 - 早期部分通知分组写回与视图注入思路参考了开源社区实践（`HyperAiNotificationCloud`）
 
